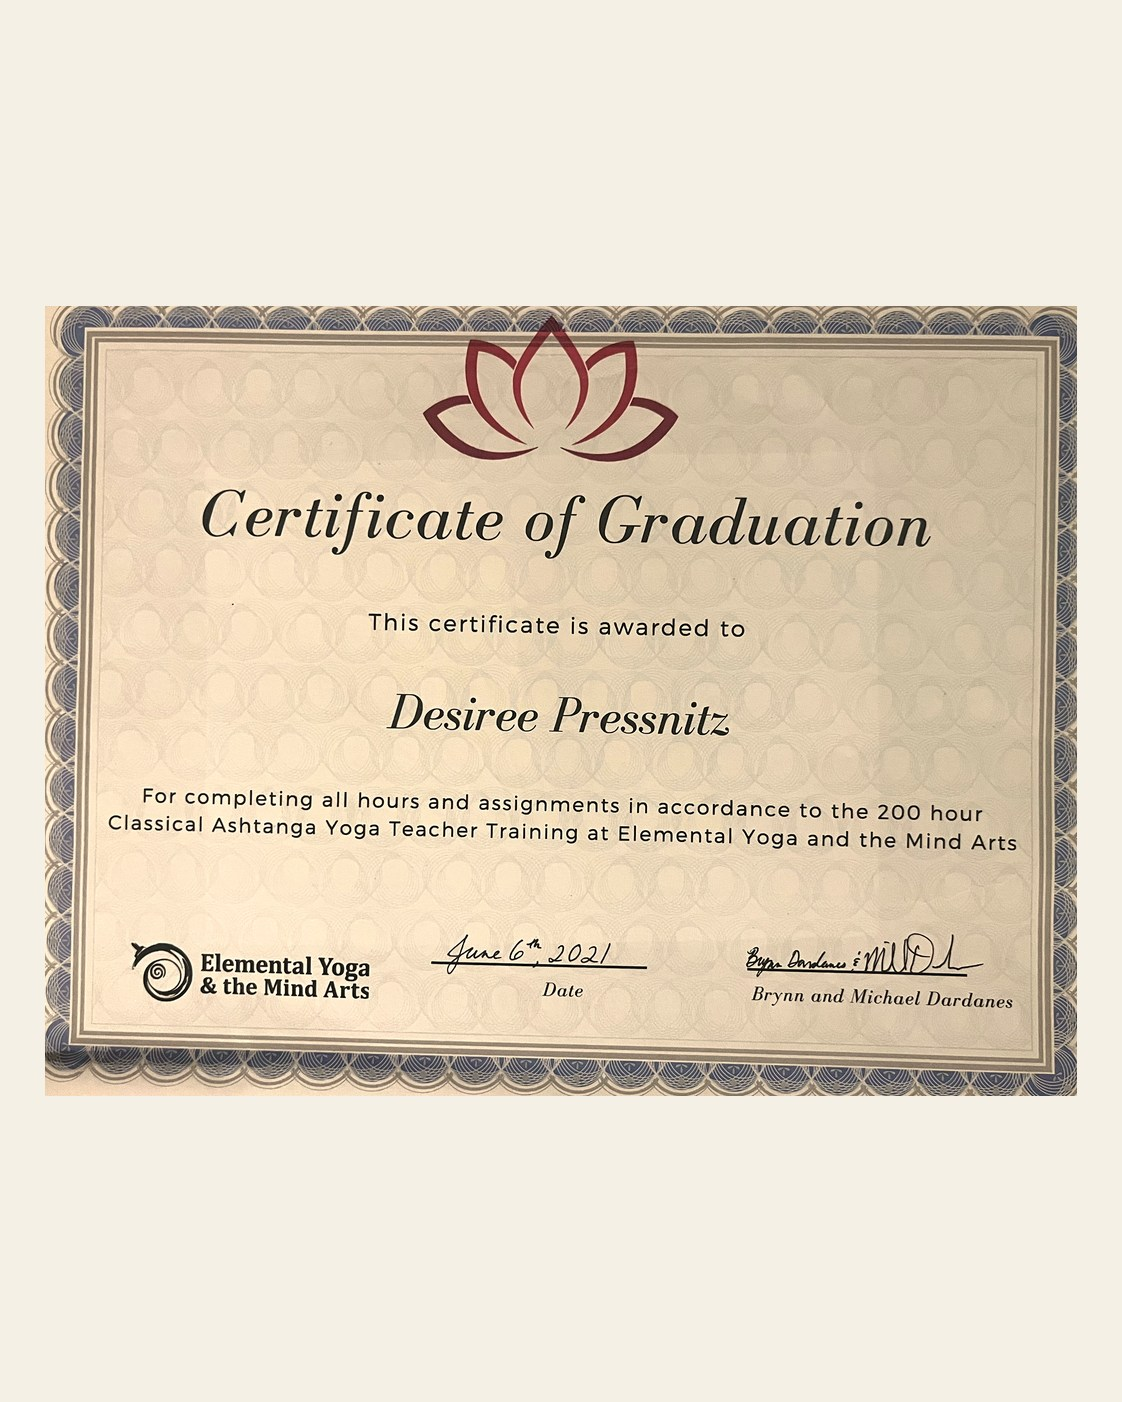
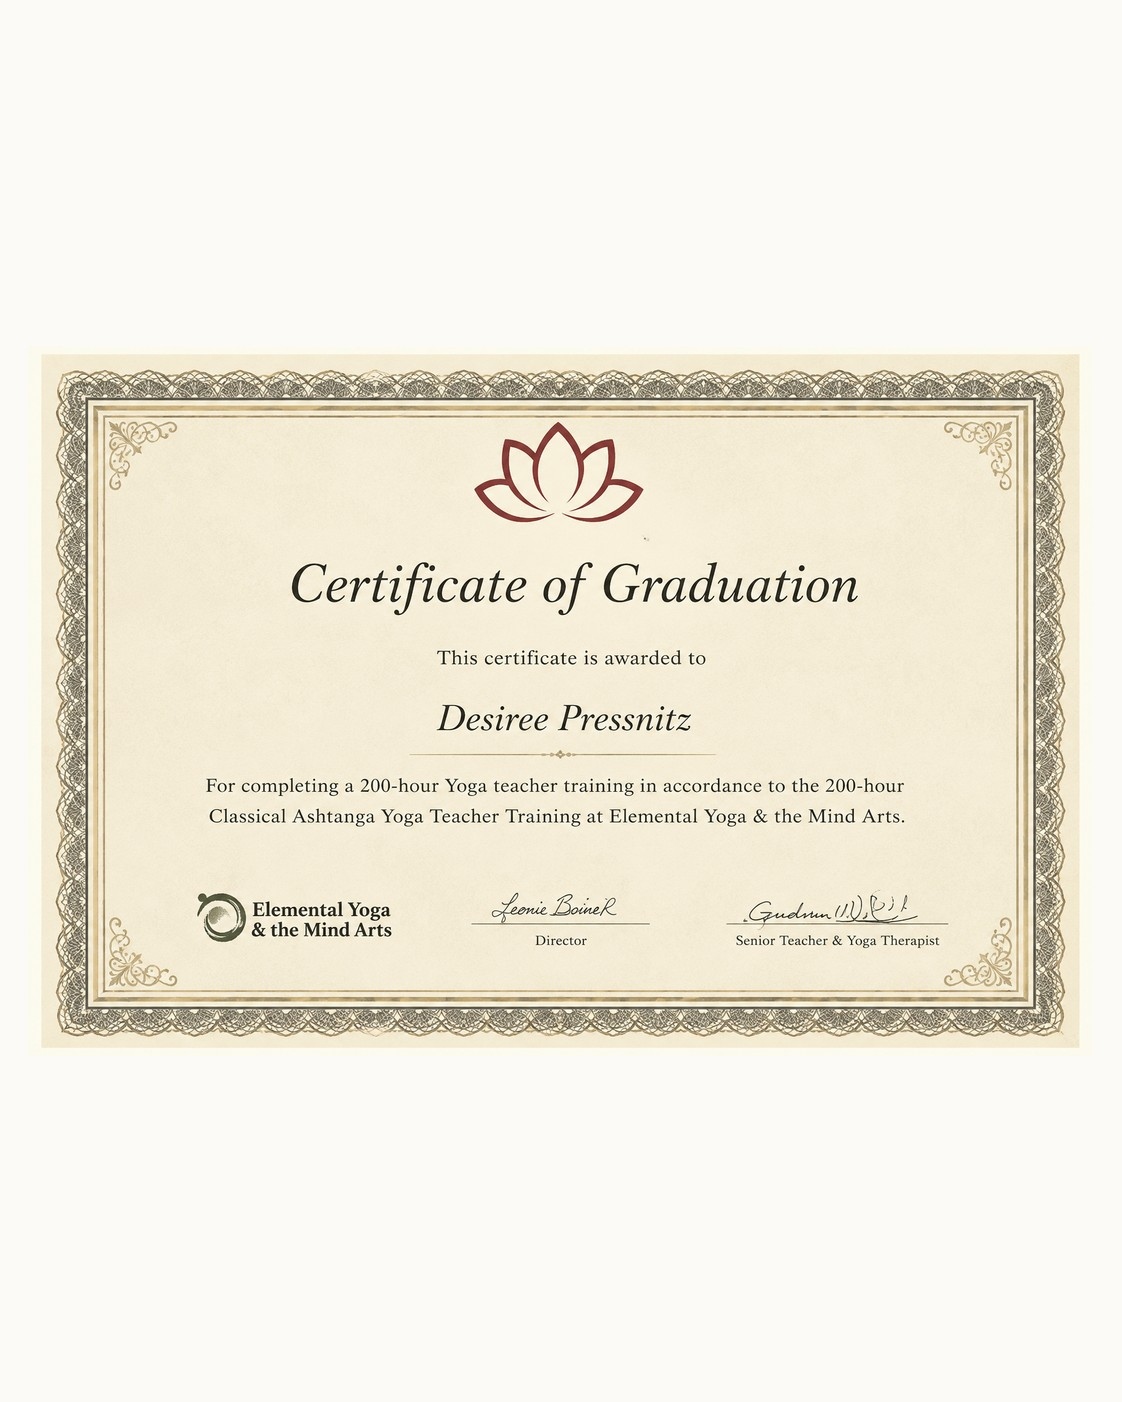
Carousel: replace yoga cert with high-quality version; seamless infinite loop
- Swap yoga certificate for the clean high-resolution graduation certificate.
- Rebuild the certificates carousel as a true endless loop: clone the first
  slide after the last and the last before the first, then silently snap to
  the real twin once a swipe settles — so it scrolls continuously in either
  direction (the first reappears right after the last). Autoplay + dots adapt.

diff --git a/index.html b/index.html
@@ -1608,30 +1608,58 @@ section{position:relative}
   var nav2=(navigator.language||navigator.userLanguage||'en').slice(0,2).toLowerCase();
   setLang(saved||((nav2==='de'||nav2==='es')?nav2:'en'));
 
-  /* certificates carousel — infinite loop (wraps last → first) + gentle autoplay */
+  /* certificates carousel — seamless infinite loop (cloned ends) + gentle autoplay */
   (function(){
     var track=document.getElementById("certTrack"); if(!track) return;
-    var slides=track.querySelectorAll(".cert-slide");
-    var n=slides.length;
+    var real=Array.prototype.slice.call(track.querySelectorAll(".cert-slide"));
+    var n=real.length;
     var dotsWrap=document.getElementById("certDots");
     var prev=document.querySelector(".cert-nav.prev"), next=document.querySelector(".cert-nav.next");
-    function step(){ return n>1 ? (slides[1].offsetLeft-slides[0].offsetLeft) : track.clientWidth; }
-    function cur(){ return Math.round(track.scrollLeft/step()); }
-    function go(i){ i=((i%n)+n)%n; track.scrollTo({left:i*step(),behavior:"smooth"}); }   /* wrap both ways */
-    if(dotsWrap){ slides.forEach(function(_,i){ var b=document.createElement("button"); b.type="button"; b.setAttribute("aria-label","Certificate "+(i+1)); if(i===0)b.className="on"; b.addEventListener("click",function(){userStop();go(i);}); dotsWrap.appendChild(b); }); }
-    function active(){ var c=cur(); if(dotsWrap){ dotsWrap.querySelectorAll("button").forEach(function(b,i){ b.classList.toggle("on",i===c); }); } }
-    track.addEventListener("scroll",function(){ window.requestAnimationFrame(active); },{passive:true});
-    if(prev)prev.addEventListener("click",function(){userStop();go(cur()-1);});
-    if(next)next.addEventListener("click",function(){userStop();go(cur()+1);});
 
-    /* autoplay: advance forward and loop back to the first after the last */
+    /* clone the first slide to the end and the last to the start, so moving past
+       either edge flows straight into a twin — then we silently snap back to the
+       real slide, giving an endless feel in both directions. */
+    if(n>1){
+      var firstC=real[0].cloneNode(true), lastC=real[n-1].cloneNode(true);
+      [firstC,lastC].forEach(function(c){ c.setAttribute("aria-hidden","true"); c.classList.add("is-clone"); });
+      track.appendChild(firstC);
+      track.insertBefore(lastC, real[0]);
+    }
+    var slides=track.querySelectorAll(".cert-slide");           /* n+2 when looping */
+    function step(){ return slides.length>1 ? (slides[1].offsetLeft-slides[0].offsetLeft) : track.clientWidth; }
+    function at(){ var s=step(); return s ? Math.round(track.scrollLeft/s) : 0; }   /* position incl. clones */
+    function realIndex(){ return n>1 ? (((at()-1)%n)+n)%n : 0; }                     /* 0..n-1 */
+    function jump(i){ track.style.scrollBehavior="auto"; track.scrollLeft=Math.round(i*step()); track.style.scrollBehavior=""; }
+    function glide(i){ track.scrollTo({left:Math.round(i*step()),behavior:"smooth"}); }
+
+    if(dotsWrap){ real.forEach(function(_,i){ var b=document.createElement("button"); b.type="button"; b.setAttribute("aria-label","Certificate "+(i+1)); if(i===0)b.className="on"; b.addEventListener("click",function(){ userStop(); glide(n>1?i+1:i); }); dotsWrap.appendChild(b); }); }
+    function syncDots(){ if(dotsWrap){ var r=realIndex(); dotsWrap.querySelectorAll("button").forEach(function(b,i){ b.classList.toggle("on",i===r); }); } }
+
+    /* once a snap settles on a clone, hop instantly to its real twin */
+    var t=null;
+    function settle(){
+      if(n>1){ var i=at(); if(i<=0){ jump(n); } else if(i>=n+1){ jump(1); } }
+      syncDots();
+    }
+    track.addEventListener("scroll",function(){ clearTimeout(t); t=setTimeout(settle,110); },{passive:true});
+
+    function go(dir){ glide(at()+dir); }
+    if(prev)prev.addEventListener("click",function(){ userStop(); go(-1); });
+    if(next)next.addEventListener("click",function(){ userStop(); go(1); });
+
+    function anchor(){ if(n>1) jump(1); syncDots(); }
+    anchor();
+    window.addEventListener("load",anchor);
+    var rt=null; window.addEventListener("resize",function(){ clearTimeout(rt); rt=setTimeout(function(){ jump(n>1?realIndex()+1:0); },150); });
+
+    /* gentle autoplay forward; stops for good once the user takes control */
     var timer=null, engaged=false, RM=window.matchMedia('(prefers-reduced-motion: reduce)').matches;
-    function startA(){ if(RM||engaged||n<2||timer) return; timer=setInterval(function(){ go(cur()+1); },6000); }
+    function startA(){ if(RM||engaged||n<2||timer) return; timer=setInterval(function(){ go(1); },6000); }
     function stopA(){ if(timer){ clearInterval(timer); timer=null; } }
-    function userStop(){ engaged=true; stopA(); }                 /* once the user navigates, stay put */
-    track.addEventListener('pointerdown',userStop,{passive:true});
-    track.addEventListener('mouseenter',stopA);
-    track.addEventListener('mouseleave',startA);
+    function userStop(){ engaged=true; stopA(); }
+    track.addEventListener("pointerdown",userStop,{passive:true});
+    track.addEventListener("mouseenter",stopA);
+    track.addEventListener("mouseleave",startA);
     startA();
   })();
 })();
